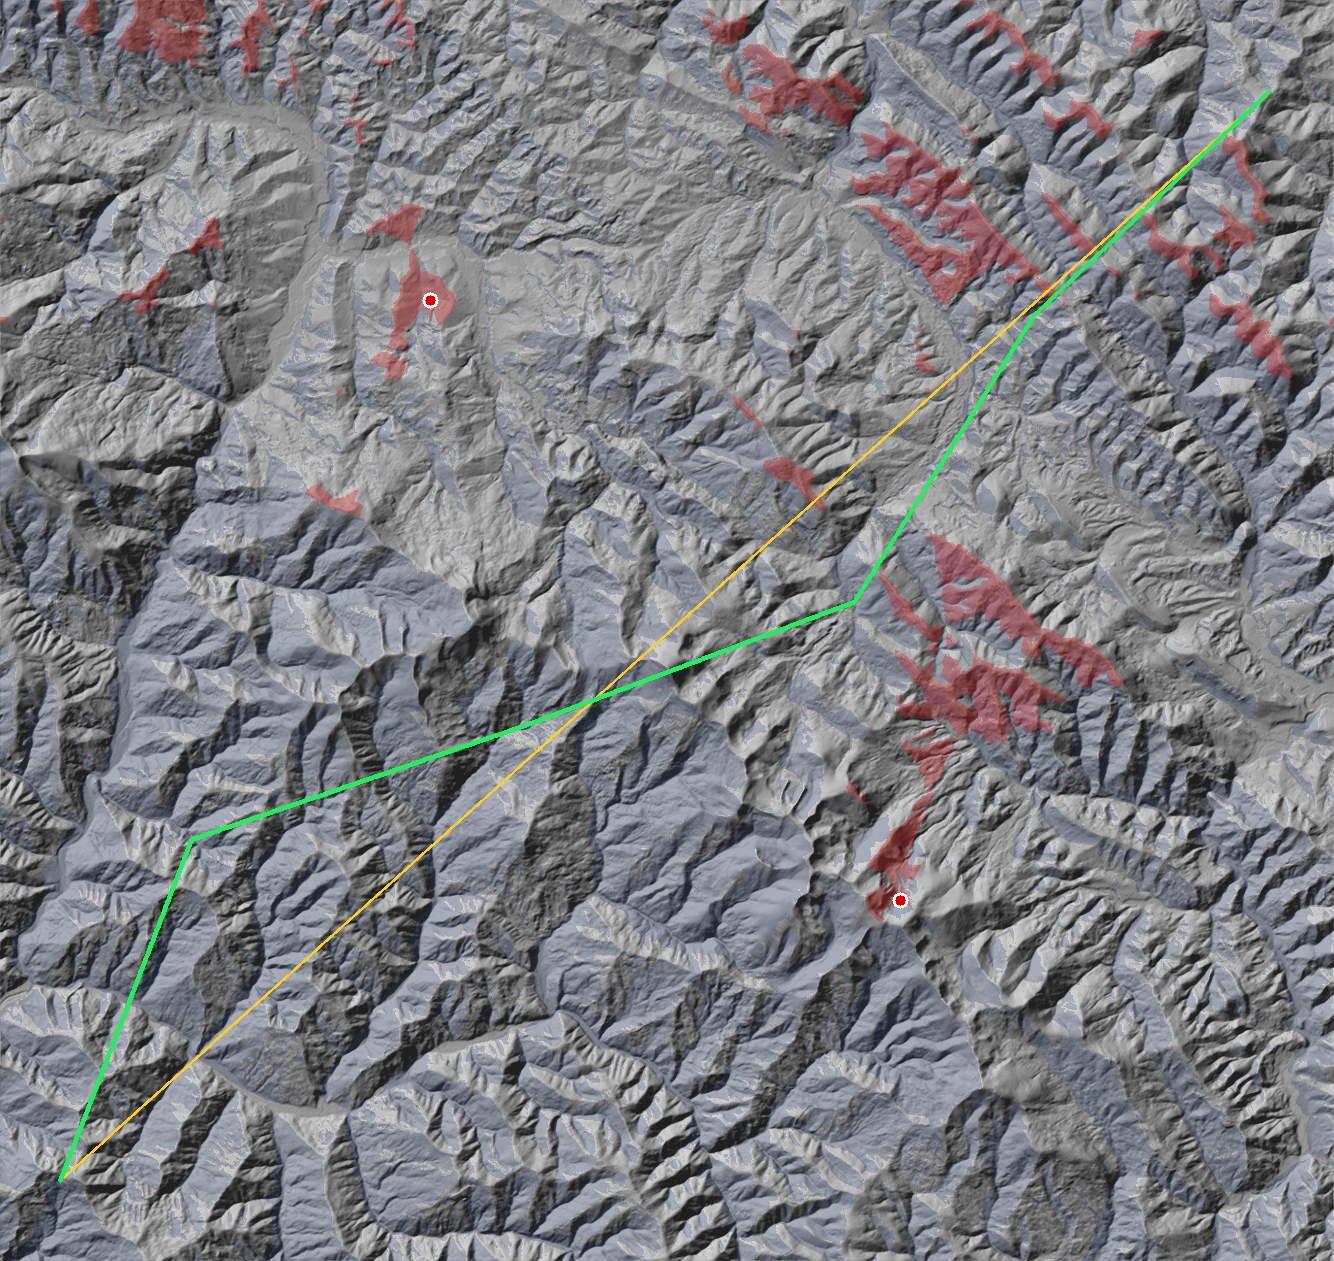
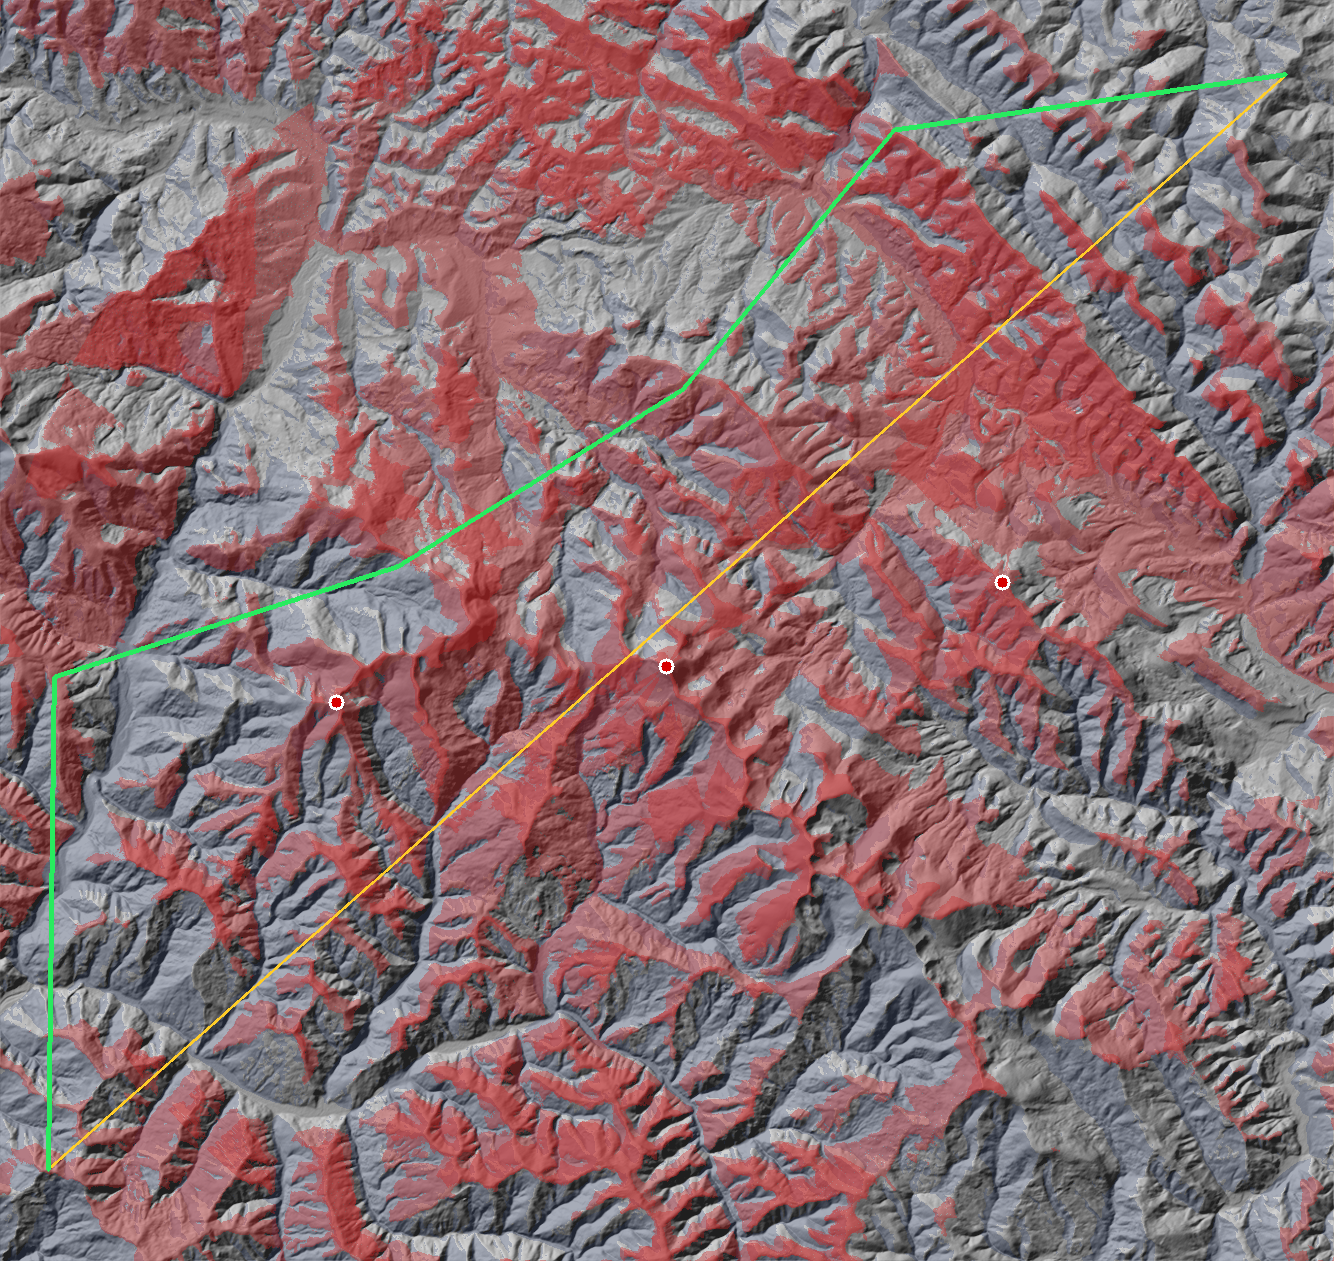
Take enemy positions as validated operator input
Threats now come from a mission file as lat/lon, with mast height and
sensor range per threat, parsed through src/threats.js. Bad input throws
naming the field and the acceptable range rather than coercing - a
silently clamped coordinate produces a confidently wrong map.

Mast height matters more than expected: an 18 m EW mast on a ridge moves
the corridor further than any parameter the planner controls.

src/coords.js is the only place lat/lon and grid cells meet.

Example threats are placed on the highest ground within 6 km of the route.
Sensors in valleys see almost nothing, which is correct and produces a
demo with no red on it at all.

diff --git a/src/threats.js b/src/threats.js
@@ -1,0 +1,140 @@
+// Enemy sensor positions, as input.
+//
+// These are ALWAYS supplied by whoever is planning. Nothing in this codebase
+// detects, identifies or locates anything - it takes a list of coordinates a
+// human has decided to enter and computes geometry from them. That boundary is
+// deliberate and it is the line the safety position rests on.
+//
+// A threat is a position, a height, and a range:
+//
+//   lat, lon      where it is
+//   mastHeight    metres above the ground the sensor sits - a radar on a 12 m
+//                 mast sees a great deal further than a soldier lying down,
+//                 and this single number moves the corridor more than anything
+//                 else the planner controls
+//   maxRangeKm    beyond this it cannot engage regardless of line of sight
+//   type          free text, carried through for display only
+
+import { lonLatToGrid, insideBounds, describeBounds, parseLatLon } from "./coords.js";
+
+const DEFAULT_MAST_HEIGHT = 2;
+const DEFAULT_RANGE_KM = 25;
+
+export class ThreatInputError extends Error {}
+
+// Validates and normalises one threat. Throws with a message that names the
+// offending field and the acceptable range, because this is a system boundary
+// and a silent coercion here produces a confidently wrong map.
+export function parseThreat(raw, dem, index) {
+  const where = "threat " + (index === undefined ? "" : "#" + (index + 1) + " ") +
+    (raw && raw.label ? "(" + raw.label + ")" : "");
+
+  if (raw === null || typeof raw !== "object") {
+    throw new ThreatInputError(where + " is not an object");
+  }
+
+  let lat = raw.lat;
+  let lon = raw.lon;
+
+  if (typeof raw.position === "string") {
+    const parsed = parseLatLon(raw.position);
+    if (parsed === null) {
+      throw new ThreatInputError(
+        where + ' position "' + raw.position + '" is not a lat/lon pair'
+      );
+    }
+    lat = parsed.lat;
+    lon = parsed.lon;
+  }
+
+  // Grid coordinates are accepted so the UI can hand back a clicked cell
+  // without a round trip through degrees.
+  if (lat === undefined && lon === undefined && raw.x !== undefined && raw.y !== undefined) {
+    if (!Number.isFinite(raw.x) || !Number.isFinite(raw.y)) {
+      throw new ThreatInputError(where + " has non-numeric grid coordinates");
+    }
+    if (raw.x < 0 || raw.y < 0 || raw.x >= dem.width || raw.y >= dem.height) {
+      throw new ThreatInputError(
+        where + " grid position " + raw.x + "," + raw.y +
+        " is outside the 0.." + (dem.width - 1) + " by 0.." + (dem.height - 1) + " grid"
+      );
+    }
+    return finish(raw, Math.round(raw.x), Math.round(raw.y), dem);
+  }
+
+  if (!Number.isFinite(lat) || !Number.isFinite(lon)) {
+    throw new ThreatInputError(
+      where + " needs lat and lon numbers, a position string, or x and y grid cells"
+    );
+  }
+  if (lat < -90 || lat > 90) {
+    throw new ThreatInputError(where + " latitude " + lat + " is outside -90..90");
+  }
+  if (lon < -180 || lon > 180) {
+    throw new ThreatInputError(where + " longitude " + lon + " is outside -180..180");
+  }
+  if (!insideBounds(dem, lat, lon)) {
+    throw new ThreatInputError(
+      where + " at " + lat.toFixed(4) + "," + lon.toFixed(4) +
+      " is outside the loaded map (" + describeBounds(dem) + ")"
+    );
+  }
+
+  const cell = lonLatToGrid(dem, lat, lon);
+  const x = Math.min(dem.width - 1, Math.max(0, Math.round(cell.x)));
+  const y = Math.min(dem.height - 1, Math.max(0, Math.round(cell.y)));
+  return finish(raw, x, y, dem);
+}
+
+function finish(raw, x, y, dem) {
+  let mastHeight = raw.mastHeight === undefined ? DEFAULT_MAST_HEIGHT : raw.mastHeight;
+  if (!Number.isFinite(mastHeight) || mastHeight < 0 || mastHeight > 300) {
+    throw new ThreatInputError(
+      "threat " + (raw.label || "") + " mastHeight " + raw.mastHeight +
+      " is not a number of metres between 0 and 300"
+    );
+  }
+
+  let maxRangeKm = raw.maxRangeKm === undefined ? DEFAULT_RANGE_KM : raw.maxRangeKm;
+  if (!Number.isFinite(maxRangeKm) || maxRangeKm <= 0) {
+    throw new ThreatInputError(
+      "threat " + (raw.label || "") + " maxRangeKm " + raw.maxRangeKm + " must be a positive number"
+    );
+  }
+
+  return {
+    label: raw.label || "unnamed",
+    type: raw.type || "unknown",
+    x: x,
+    y: y,
+    groundElevation: dem.elev[y * dem.width + x],
+    mastHeight: mastHeight,
+    maxRangeMetres: maxRangeKm * 1000,
+    confidence: raw.confidence || "stated",
+    source: raw.source || "operator input",
+  };
+}
+
+export function parseThreats(rawList, dem) {
+  if (!Array.isArray(rawList)) {
+    throw new ThreatInputError("threats must be an array");
+  }
+  if (rawList.length === 0) {
+    throw new ThreatInputError("no threats supplied - nothing to plan against");
+  }
+  const parsed = [];
+  for (let i = 0; i < rawList.length; i++) {
+    parsed.push(parseThreat(rawList[i], dem, i));
+  }
+  return parsed;
+}
+
+export function describeThreat(threat) {
+  return (
+    threat.label +
+    " [" + threat.type + "] at cell " + threat.x + "," + threat.y +
+    ", ground " + threat.groundElevation + " m" +
+    ", mast " + threat.mastHeight + " m" +
+    ", range " + (threat.maxRangeMetres / 1000).toFixed(0) + " km"
+  );
+}

diff --git a/scripts/scenario.js b/scripts/scenario.js
@@ -12,6 +12,8 @@ import { solarPosition, sunTimes } from "../src/sun.js";
 import { computeShadow, glareIsEffective } from "../src/shadow.js";
 import { planRoute } from "../src/route.js";
 import { encodePng, hillshadeRgb, blend } from "../src/png.js";
+import { parseThreats, describeThreat, ThreatInputError } from "../src/threats.js";
+import { lonLatToGrid, insideBounds, describeBounds } from "../src/coords.js";
 import {
   VEHICLES,
   computeSlope,
@@ -21,7 +23,9 @@ import {
   computeUsable,
 } from "../src/vehicles.js";
 
-const when = new Date(process.argv[2] || "2026-08-15T04:30:00Z");
+const missionFile = process.argv[2] || "data/threats.json";
+const mission = JSON.parse(fs.readFileSync(missionFile, "utf8"));
+const when = new Date(process.argv[3] || mission.mission.timeUtc);
 
 const dem = loadDemSync();
 const lat = (dem.latTop + dem.latBottom) / 2;
@@ -32,14 +36,45 @@ const pct = (f) => (f * 100).toFixed(1) + "%";
 const NAMES = ["N", "NNE", "NE", "ENE", "E", "ESE", "SE", "SSE", "S", "SSW", "SW", "WSW", "W", "WNW", "NW", "NNW"];
 const bearingName = (d) => NAMES[Math.round(d / 22.5) % 16];
 
-const threats = [
-  { x: 430, y: 300, label: "north ridge" },
-  { x: 900, y: 900, label: "south ridge" },
-];
-const start = { x: 60, y: 1180 };
-const goal = { x: 1270, y: 90 };
+// Threats, start and goal all come from the mission file. Parsing throws with
+// a message naming the field and the acceptable range rather than coercing,
+// because a silently clamped coordinate produces a confidently wrong map.
+let threats;
+try {
+  threats = parseThreats(mission.threats, dem);
+} catch (error) {
+  if (error instanceof ThreatInputError) {
+    console.error("\nBad threat input in " + missionFile + ":\n  " + error.message + "\n");
+    process.exit(1);
+  }
+  throw error;
+}
+
+function missionPoint(spec, name) {
+  if (!spec || !Number.isFinite(spec.lat) || !Number.isFinite(spec.lon)) {
+    console.error("\nmission." + name + " needs lat and lon\n");
+    process.exit(1);
+  }
+  if (!insideBounds(dem, spec.lat, spec.lon)) {
+    console.error(
+      "\nmission." + name + " at " + spec.lat + "," + spec.lon +
+      " is outside the loaded map (" + describeBounds(dem) + ")\n"
+    );
+    process.exit(1);
+  }
+  const cell = lonLatToGrid(dem, spec.lat, spec.lon);
+  return {
+    x: Math.min(dem.width - 1, Math.max(0, Math.round(cell.x))),
+    y: Math.min(dem.height - 1, Math.max(0, Math.round(cell.y))),
+    label: spec.label || name,
+  };
+}
+
+const start = missionPoint(mission.mission.start, "start");
+const goal = missionPoint(mission.mission.goal, "goal");
 
 console.log("\n=== SCENARIO ===");
+console.log("mission " + missionFile);
 console.log(
   "grid   " + dem.width + " x " + dem.height + " at " + dem.cellSize + " m  (" +
   ((dem.width * dem.cellSize) / 1000).toFixed(1) + " x " +
@@ -64,16 +99,21 @@ console.log(
 
 // --- terrain, shared ------------------------------------------------------
 const slope = computeSlope(dem);
-console.log("\n--- threats ---");
+console.log("\n--- threats (operator input, " + threats.length + ") ---");
 const ceilings = [];
 for (const threat of threats) {
-  ceilings.push(computeCeiling(dem, threat, { observerHeight: 2 }));
-  console.log(
-    "  " + threat.label + " at " + threat.x + "," + threat.y +
-    ", ground " + dem.elev[threat.y * dem.width + threat.x] + " m"
+  ceilings.push(
+    computeCeiling(dem, threat, {
+      observerHeight: threat.mastHeight,
+      maxRangeMetres: threat.maxRangeMetres,
+    })
   );
+  console.log("  " + describeThreat(threat));
 }
 const ceiling = combineCeilings(ceilings, cellCount);
+
+console.log("\nroute   " + start.label + " -> " + goal.label +
+  "  (" + start.x + "," + start.y + " to " + goal.x + "," + goal.y + ")");
 
 // --- per vehicle ----------------------------------------------------------
 const order = ["ugvTracked", "ugvWheeled", "quadNap", "quadLow", "quadFpv"];

diff --git a/src/coords.js b/src/coords.js
@@ -1,0 +1,52 @@
+// Conversion between real-world coordinates and grid cells.
+//
+// Everything inside the compute works in grid cells. Everything a human types
+// or reads is latitude and longitude. This module is the only place the two
+// meet, which keeps the four-coordinate-systems confusion that eats geospatial
+// projects contained to one file.
+
+// The DEM is a plain lat/lon grid with known corners, so the mapping is linear.
+// Over 40 km the equirectangular error is well under one cell.
+export function lonLatToGrid(dem, lat, lon) {
+  const x = ((lon - dem.lonLeft) / (dem.lonRight - dem.lonLeft)) * dem.width;
+  const y = ((dem.latTop - lat) / (dem.latTop - dem.latBottom)) * dem.height;
+  return { x: x, y: y };
+}
+
+export function gridToLonLat(dem, x, y) {
+  const lon = dem.lonLeft + (x / dem.width) * (dem.lonRight - dem.lonLeft);
+  const lat = dem.latTop - (y / dem.height) * (dem.latTop - dem.latBottom);
+  return { lat: lat, lon: lon };
+}
+
+export function insideBounds(dem, lat, lon) {
+  return (
+    lat >= dem.latBottom &&
+    lat <= dem.latTop &&
+    lon >= dem.lonLeft &&
+    lon <= dem.lonRight
+  );
+}
+
+export function describeBounds(dem) {
+  return (
+    "lat " + dem.latBottom.toFixed(4) + " to " + dem.latTop.toFixed(4) +
+    ", lon " + dem.lonLeft.toFixed(4) + " to " + dem.lonRight.toFixed(4)
+  );
+}
+
+// Accepts the shapes a person actually produces: "48.2103, 24.4412",
+// "48.2103 24.4412", or a decimal pair already split out.
+export function parseLatLon(text) {
+  const cleaned = String(text).replace(/[^0-9eE+\-., ]/g, " ");
+  const parts = cleaned.split(/[ ,]+/).filter((p) => p.length > 0);
+  if (parts.length < 2) {
+    return null;
+  }
+  const lat = Number(parts[0]);
+  const lon = Number(parts[1]);
+  if (!Number.isFinite(lat) || !Number.isFinite(lon)) {
+    return null;
+  }
+  return { lat: lat, lon: lon };
+}
